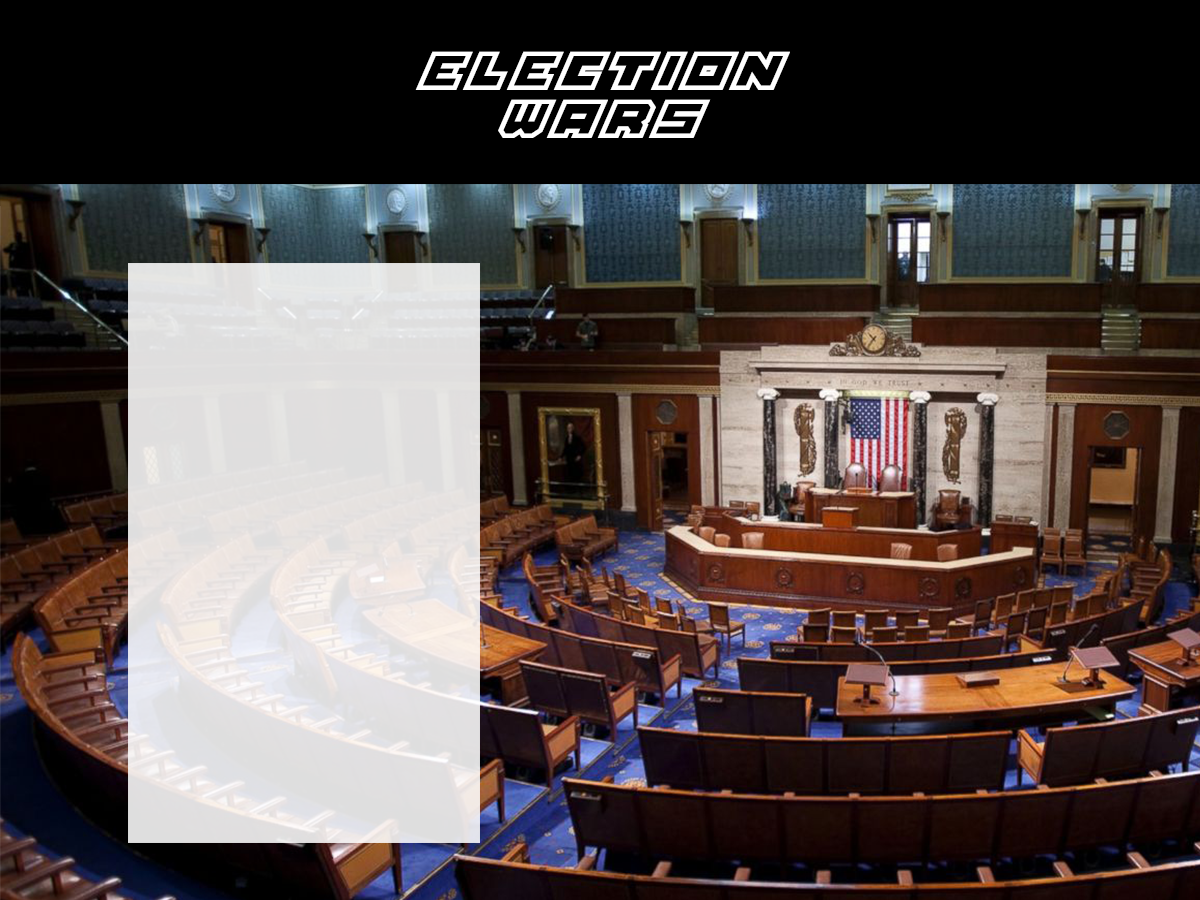
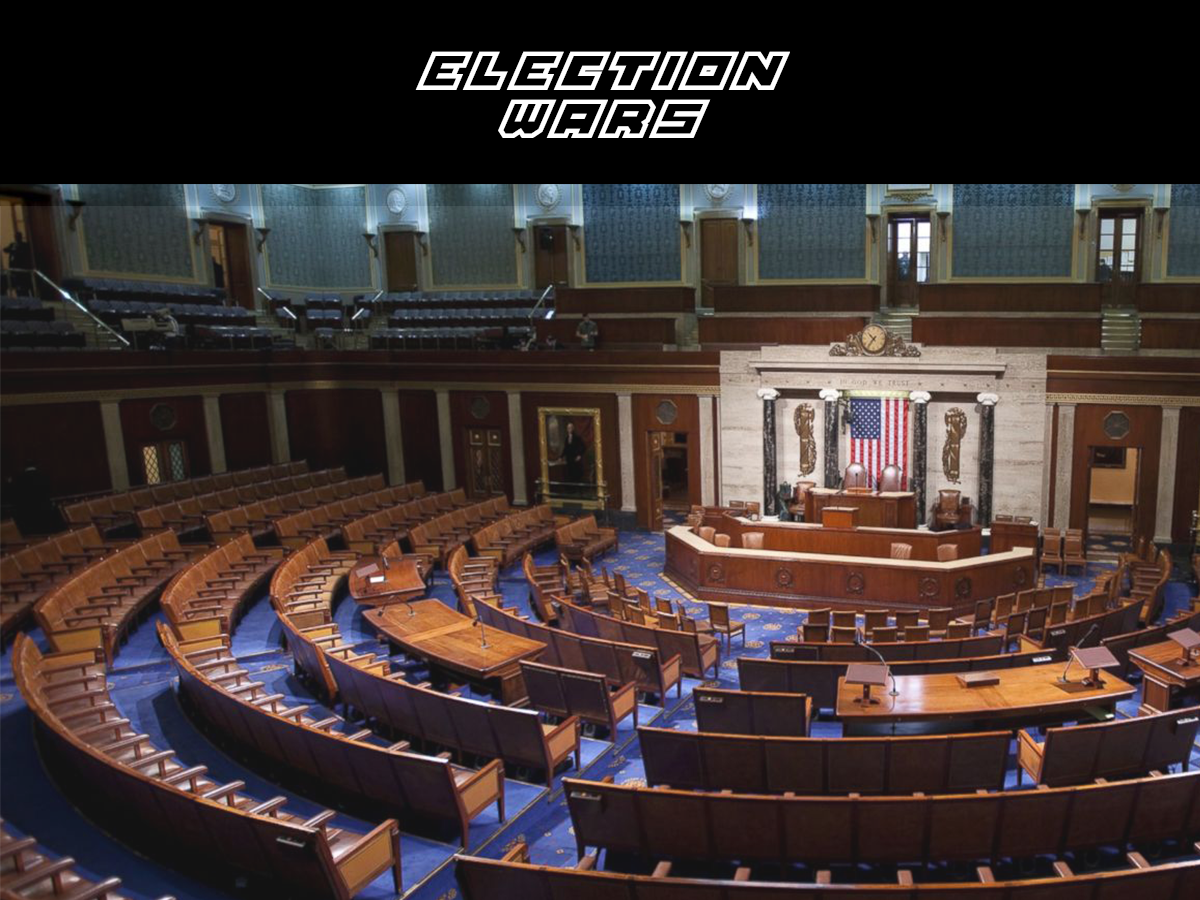
updated the splas and lobby screen. Added readybtn

Changed region(s): [[0.0925, 0.28, 0.4008, 0.9644]]

diff --git a/public/GameStyle.css b/public/GameStyle.css
@@ -10,8 +10,8 @@ body{
     margin-right: auto;
 }
 #join-form{
-    position: absolute;
-    top:60%;
+    position: absolute;     
+    top: 60%;
     left: 50%;
 }
 #main{
@@ -63,11 +63,11 @@ body{
 }
 #submit{
     width: 40%;
-    height: 40%;
+    
 }
 #submit:hover{
     width: 40%;
-    height: 40%;
+    
     opacity: 0.75;
 }
 ul {
@@ -102,10 +102,23 @@ ul {
     width: 30%;
 }
 #ul1{
+    background-color: white;
+    opacity: 0.75;
     position: absolute;
     left: 30%;
     top: 30%;
+    padding: 20px;
+    min-width: 260px;
+    min-height: 400px
 }
 #ul1 li{
     margin-bottom: 5px;
+}
+#readybtn{
+    width: 10%;
+    position: inherit;
+}
+#readybtn:hover{
+    width: 10%;
+    opacity: 0.75;
 }

diff --git a/index.html b/index.html
@@ -24,10 +24,12 @@ and open the template in the editor.
             </table>
         </div>
         </div>
-        <div id="lobby">
-            <ul id="ul1"></ul>
+        <div id="lobby">        
+                <ul id="ul1"></ul>
+                
             <textarea readonly disabled id="chatbox"></textarea><br>
             <input type="text" id="messagebox" name="messagebox">
+            <div id="readybtndiv"></div>
         </div>
     <div id="game">
         <canvas id='canvas' width="1200" height="900"></canvas>

diff --git a/public/GameScript.js b/public/GameScript.js
@@ -16,7 +16,7 @@ socket.on("playerlist", function(playerlist){
     });     
 });
 //print ready button
-$("#lobby").append('<button id="readybtn">Ready</button>');
+$("#readybtndiv").append('<input id="readybtn" type="image" src="images/ReadyNormal.png">');
 
 //hide lobby when receiving the emit from server after all players pressed ready
 socket.on("hideLobby", function(){
